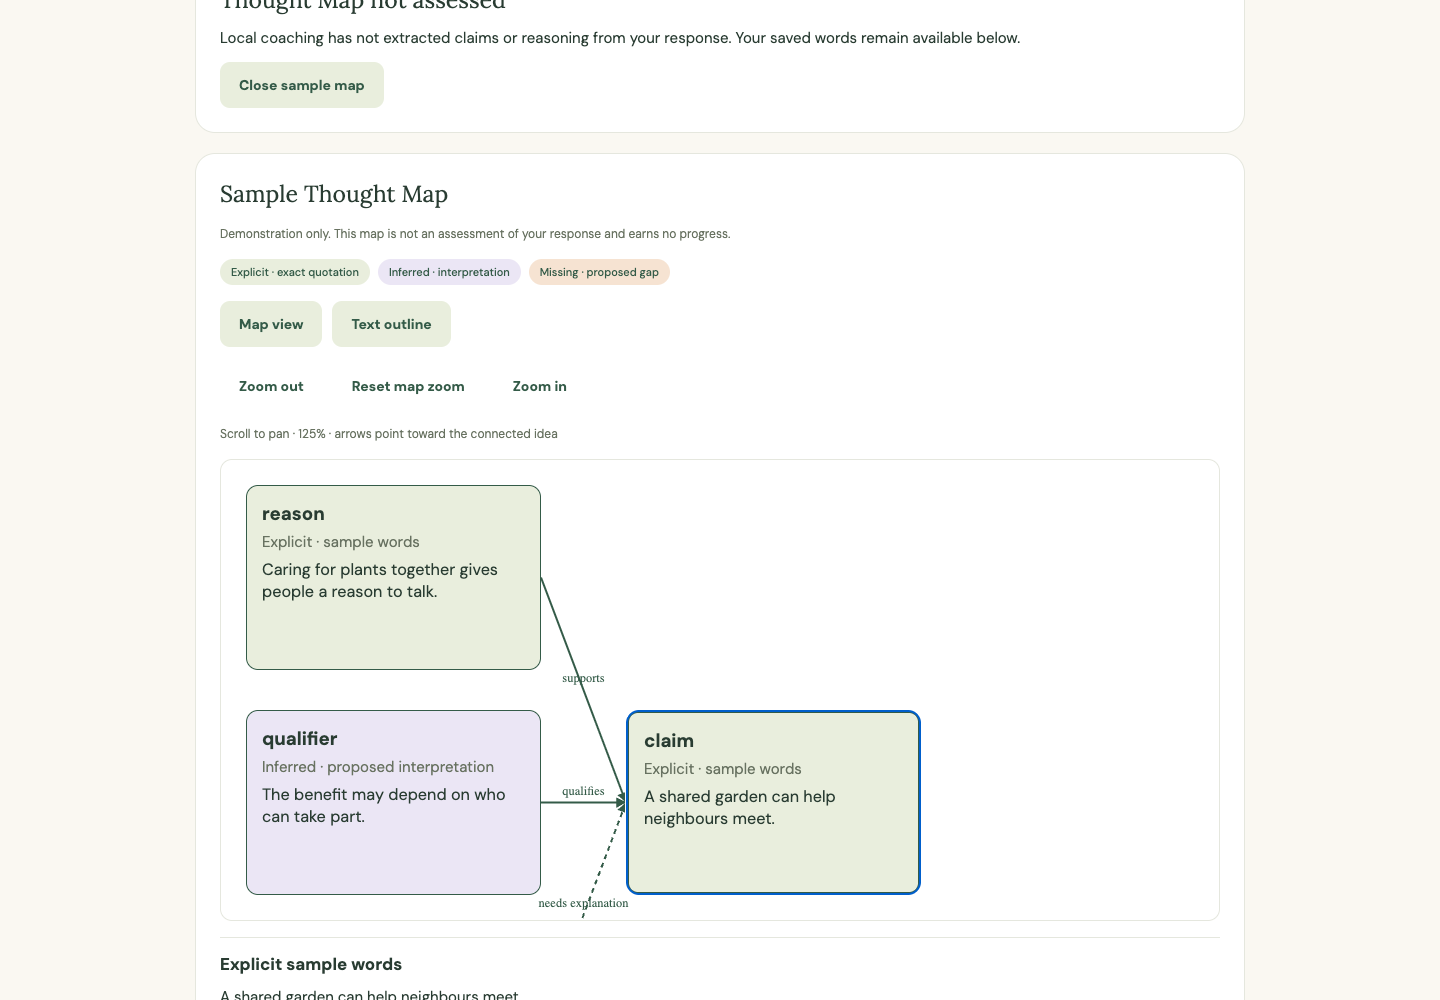
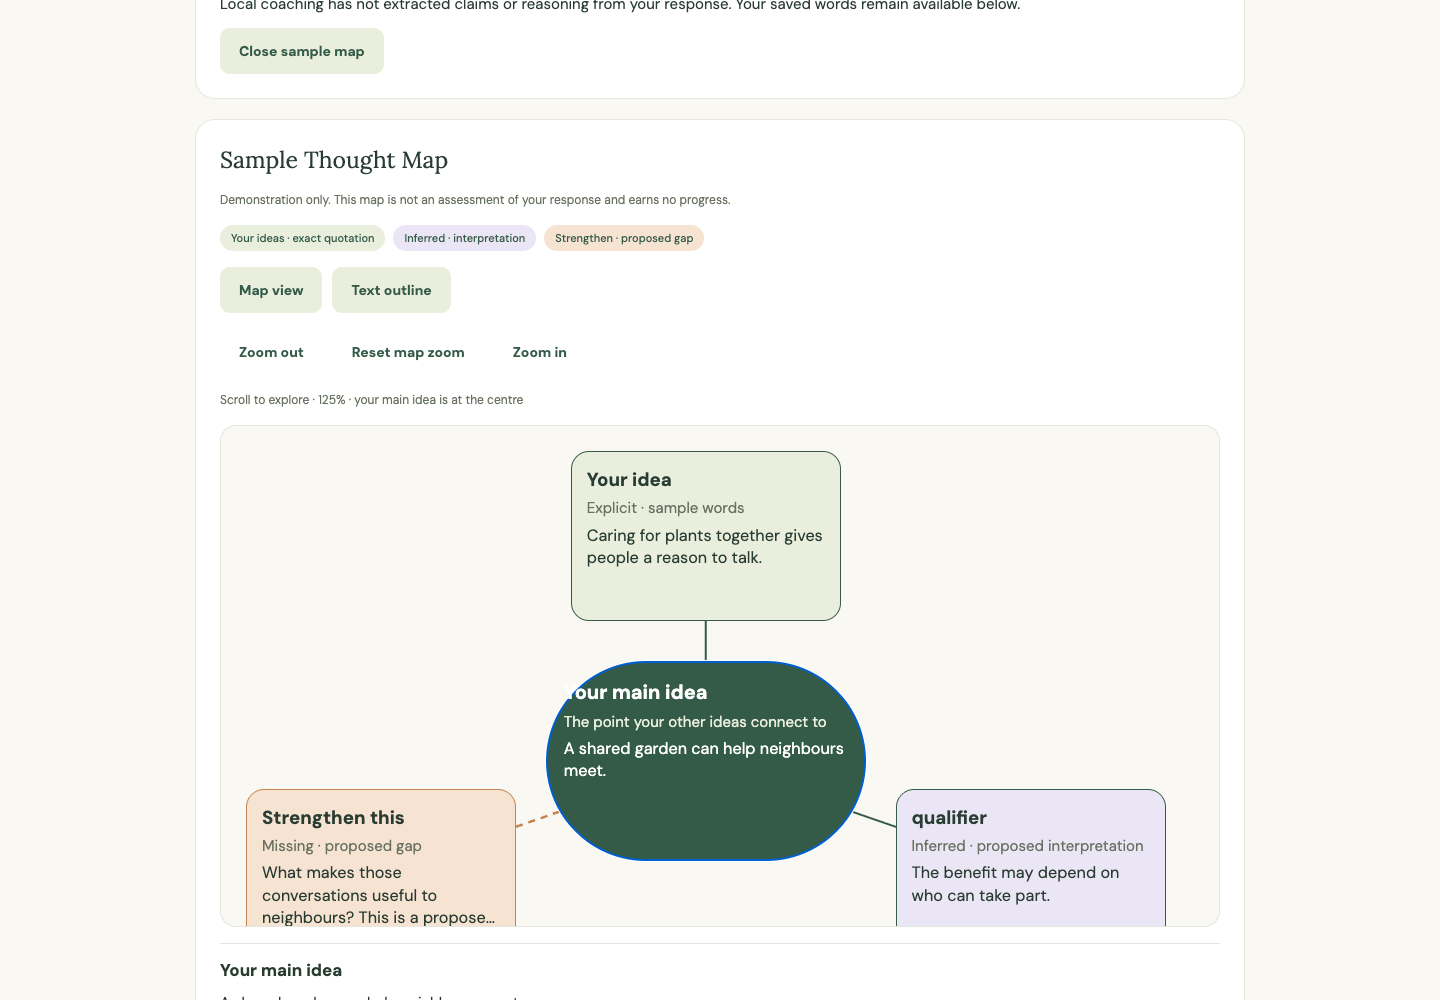
Present thought maps as learner-centred mind maps

diff --git a/src/components/ThoughtMap.tsx b/src/components/ThoughtMap.tsx
@@ -4,9 +4,8 @@ import {
   ScrollView,
   Text,
   View,
-  useWindowDimensions,
 } from "react-native";
-import Svg, { Line, Polygon, Text as SvgText } from "react-native-svg";
+import Svg, { Line } from "react-native-svg";
 import { layoutThoughtMap } from "../../shared/thought-map-layout.mjs";
 import type { ThoughtMap as MapData, ThoughtMapNode } from "../types";
 import { Button, C, Card, T, Tag } from "./ui";
@@ -18,6 +17,14 @@ const statusLabel = {
 };
 const nodeColor = { explicit: C.sage, inferred: C.lilac, missing: C.peach };
 const readable = (word: string) => word.replaceAll("_", " ");
+const nodeHeading = (node: ThoughtMapNode, central: boolean) =>
+  central
+    ? "Your main idea"
+    : node.status === "missing"
+      ? "Strengthen this"
+      : node.status === "explicit"
+        ? "Your idea"
+        : readable(node.type);
 
 export function ThoughtMapView({
   map,
@@ -28,10 +35,7 @@ export function ThoughtMapView({
   answer: string;
   sample?: boolean;
 }) {
-  const { width } = useWindowDimensions();
-  const [view, setView] = useState<"map" | "outline">(
-    width < 700 ? "outline" : "map",
-  );
+  const [view, setView] = useState<"map" | "outline">("map");
   const [selected, setSelected] = useState<ThoughtMapNode | null>(null);
   const [zoom, setZoom] = useState(1);
   const layout = useMemo(() => layoutThoughtMap(map), [map]);
@@ -48,12 +52,12 @@ export function ThoughtMapView({
       <Text style={T.small}>
         {sample
           ? "Demonstration only. This map is not an assessment of your response and earns no progress."
-          : "A provisional interpretation of this response. Tap a node to inspect its evidence or proposed question."}
+          : "Your ideas form the branches. Peach dashed branches show a proposed gap you can strengthen. Tap a node to inspect its evidence or question."}
       </Text>
       <View style={{ flexDirection: "row", flexWrap: "wrap", gap: 8 }}>
-        <Tag color={C.sage}>Explicit · exact quotation</Tag>
+        <Tag color={C.sage}>Your ideas · exact quotation</Tag>
         <Tag color={C.lilac}>Inferred · interpretation</Tag>
-        <Tag color={C.peach}>Missing · proposed gap</Tag>
+        <Tag color={C.peach}>Strengthen · proposed gap</Tag>
       </View>
       <View style={{ flexDirection: "row", flexWrap: "wrap", gap: 10 }}>
         <Button
@@ -91,16 +95,21 @@ export function ThoughtMapView({
             />
           </View>
           <Text style={T.small}>
-            Scroll to pan · {Math.round(zoom * 100)}% · arrows point toward the
-            connected idea
+            Scroll to explore · {Math.round(zoom * 100)}% · your main idea is
+            at the centre
           </Text>
           <ScrollView
             horizontal
             nestedScrollEnabled
             testID="thought-map-canvas"
-            style={{ borderWidth: 1, borderColor: C.border, borderRadius: 12 }}
+            style={{
+              borderWidth: 1,
+              borderColor: C.border,
+              borderRadius: 16,
+              backgroundColor: C.cream,
+            }}
           >
-            <ScrollView nestedScrollEnabled style={{ maxHeight: 460 }}>
+            <ScrollView nestedScrollEnabled style={{ maxHeight: 500 }}>
               <View
                 style={{
                   width: layout.width * zoom,
@@ -120,39 +129,26 @@ export function ThoughtMapView({
                     const to = layout.positions.find(
                       (position) => position.id === edge.target,
                     )!;
-                    const x1 = (from.x + from.width) * zoom,
+                    const x1 = (from.x + from.width / 2) * zoom,
                       y1 = (from.y + from.height / 2) * zoom;
-                    const x2 = to.x * zoom,
+                    const x2 = (to.x + to.width / 2) * zoom,
                       y2 = (to.y + to.height / 2) * zoom;
-                    const angle = Math.atan2(y2 - y1, x2 - x1),
-                      size = 9 * zoom;
-                    const points = `${x2},${y2} ${x2 - size * Math.cos(angle - 0.5)},${y2 - size * Math.sin(angle - 0.5)} ${x2 - size * Math.cos(angle + 0.5)},${y2 - size * Math.sin(angle + 0.5)}`;
+                    const gap =
+                      map.nodes.find((node) => node.id === edge.source)
+                        ?.status === "missing" ||
+                      map.nodes.find((node) => node.id === edge.target)
+                        ?.status === "missing";
                     return (
-                      <React.Fragment key={edge.id}>
-                        <Line
-                          x1={x1}
-                          y1={y1}
-                          x2={x2}
-                          y2={y2}
-                          stroke={C.forest}
-                          strokeWidth={2}
-                          strokeDasharray={
-                            edge.relation === "needs_explanation"
-                              ? "5,4"
-                              : undefined
-                          }
-                        />
-                        <Polygon points={points} fill={C.forest} />
-                        <SvgText
-                          x={(x1 + x2) / 2}
-                          y={(y1 + y2) / 2 - 8}
-                          fontSize={10 * zoom}
-                          fill={C.forest}
-                          textAnchor="middle"
-                        >
-                          {readable(edge.relation)}
-                        </SvgText>
-                      </React.Fragment>
+                      <Line
+                        key={edge.id}
+                        x1={x1}
+                        y1={y1}
+                        x2={x2}
+                        y2={y2}
+                        stroke={gap ? C.orange : C.forest}
+                        strokeWidth={gap ? 2.5 : 2}
+                        strokeDasharray={gap ? "7,6" : undefined}
+                      />
                     );
                   })}
                 </Svg>
@@ -164,7 +160,7 @@ export function ThoughtMapView({
                     <Pressable
                       key={node.id}
                       accessibilityRole="button"
-                      accessibilityLabel={`${readable(node.type)}: ${node.status === "explicit" && sample ? "Explicit sample words" : statusLabel[node.status]}`}
+                      accessibilityLabel={`${nodeHeading(node, position.central)}: ${node.status === "explicit" && sample ? "Explicit sample words" : statusLabel[node.status]}`}
                       accessibilityState={{
                         selected: selected?.id === node.id,
                       }}
@@ -177,38 +173,58 @@ export function ThoughtMapView({
                         width: position.width * zoom,
                         height: position.height * zoom,
                         padding: 12 * zoom,
-                        borderRadius: 12,
+                        borderRadius: position.central ? 999 : 18,
                         gap: 5 * zoom,
-                        borderWidth: selected?.id === node.id ? 3 : 1,
-                        borderColor: C.forest,
+                        borderWidth:
+                          selected?.id === node.id ? 3 : position.central ? 2 : 1,
+                        borderColor:
+                          position.central || node.status !== "missing"
+                            ? C.forest
+                            : C.orange,
                         backgroundColor: pressed
                           ? C.yellow
-                          : nodeColor[node.status],
+                          : position.central
+                            ? C.forest
+                            : nodeColor[node.status],
                       })}
                     >
                       <Text
                         style={[
                           T.h3,
-                          { fontSize: 15 * zoom, lineHeight: 20 * zoom },
+                          {
+                            fontSize: position.central ? 16 * zoom : 15 * zoom,
+                            lineHeight: position.central ? 21 * zoom : 20 * zoom,
+                            color: position.central ? C.paper : C.ink,
+                          },
                         ]}
                       >
-                        {readable(node.type)}
+                        {nodeHeading(node, position.central)}
                       </Text>
                       <Text
                         style={[
                           T.small,
-                          { fontSize: 12 * zoom, lineHeight: 16 * zoom },
+                          {
+                            fontSize: 12 * zoom,
+                            lineHeight: 16 * zoom,
+                            color: position.central ? C.sage : C.muted,
+                          },
                         ]}
                       >
-                        {node.status === "explicit" && sample
-                          ? "Explicit · sample words"
-                          : statusLabel[node.status]}
+                        {position.central
+                          ? "The point your other ideas connect to"
+                          : node.status === "explicit" && sample
+                            ? "Explicit · sample words"
+                            : statusLabel[node.status]}
                       </Text>
                       <Text
                         numberOfLines={3}
                         style={[
                           T.body,
-                          { fontSize: 13 * zoom, lineHeight: 18 * zoom },
+                          {
+                            fontSize: 13 * zoom,
+                            lineHeight: 18 * zoom,
+                            color: position.central ? C.paper : C.ink,
+                          },
                         ]}
                       >
                         {node.text || node.feedback}
@@ -278,9 +294,13 @@ export function ThoughtMapView({
           }}
         >
           <Text style={T.h3}>
-            {sample && selected.status === "explicit"
+            {selected.id === layout?.rootId
+              ? "Your main idea"
+              : sample && selected.status === "explicit"
               ? "Explicit sample words"
-              : statusLabel[selected.status]}
+              : selected.status === "missing"
+                ? "Strengthen this idea"
+                : statusLabel[selected.status]}
           </Text>
           <Text selectable style={T.body}>
             {selected.text ||

diff --git a/tests/daily-workout.spec.ts b/tests/daily-workout.spec.ts
@@ -332,6 +332,7 @@ test("local BRIDGE shows six criteria and a clearly separate interactive sample 
       { exact: true },
     ),
   ).toBeVisible();
+  await page.getByRole("button", { name: "Text outline", exact: true }).click();
   await page.getByTestId("thought-map-outline-claim").click();
   await expect(page.getByTestId("thought-map-source")).toContainText(
     "A shared garden can help neighbours meet.",
@@ -343,7 +344,7 @@ test("local BRIDGE shows six criteria and a clearly separate interactive sample 
   await expect(page.getByTestId("thought-map-source")).toHaveCount(0);
   await page.getByRole("button", { name: "Map view", exact: true }).click();
   await page.getByRole("button", { name: "Zoom in", exact: true }).click();
-  await expect(page.getByText(/Scroll to pan · 125%/)).toBeVisible();
+  await expect(page.getByText(/Scroll to explore · 125%/)).toBeVisible();
   await screenshot(page, "bridge-sample-map-mobile.png");
   await page.setViewportSize({ width: 1440, height: 1000 });
   await page.getByTestId("thought-map-node-claim").focus();

diff --git a/docs/release-status.md b/docs/release-status.md
@@ -8,6 +8,10 @@ The production domain serves the homepage and `/api/health` publicly with HTTP 2
 
 Live Chrome verification at a 390 × 844 mobile viewport passed guest creation, onboarding, authenticated `/api/state`, persisted onboarding after reload, and navigation to Spin & Speak. No JavaScript runtime errors occurred and document width stayed within the viewport. The signed-out state request correctly returned 401 before guest creation. The practice screen was captured and visually reviewed. The isolated release-check guest account was deleted successfully through `/api/account` (HTTP 200). No model evaluation or acoustic provider call was made in this smoke check.
 
+## Thought Map presentation — 13 November 2026
+
+Thought Maps now present the learner's explicit main claim as a central node, arrange connected ideas radially around it, and show proposed gaps as orange dashed branches labelled “Strengthen this.” The stored graph, quote provenance, validation and accessible text-outline view remain unchanged. The focused BRIDGE graph suite, lint, TypeScript check, web export and mobile browser check passed.
+
 The implemented local flows are reviewable and tested. The complete master roadmap is **not finished**, and this is **not a production approval**.
 
 Implemented: the opt-in two-activity daily loop, idempotent XP/streak/cosmetic rewards, private reading self-review and recordings, BRIDGE feedback and Thought Maps, integrated WordBloom, optional acoustic processing with real media decoding, provisional pronunciation review scheduling, daily speaking access independent of optional quota, and evidence-backed practice recommendations with user controls.
